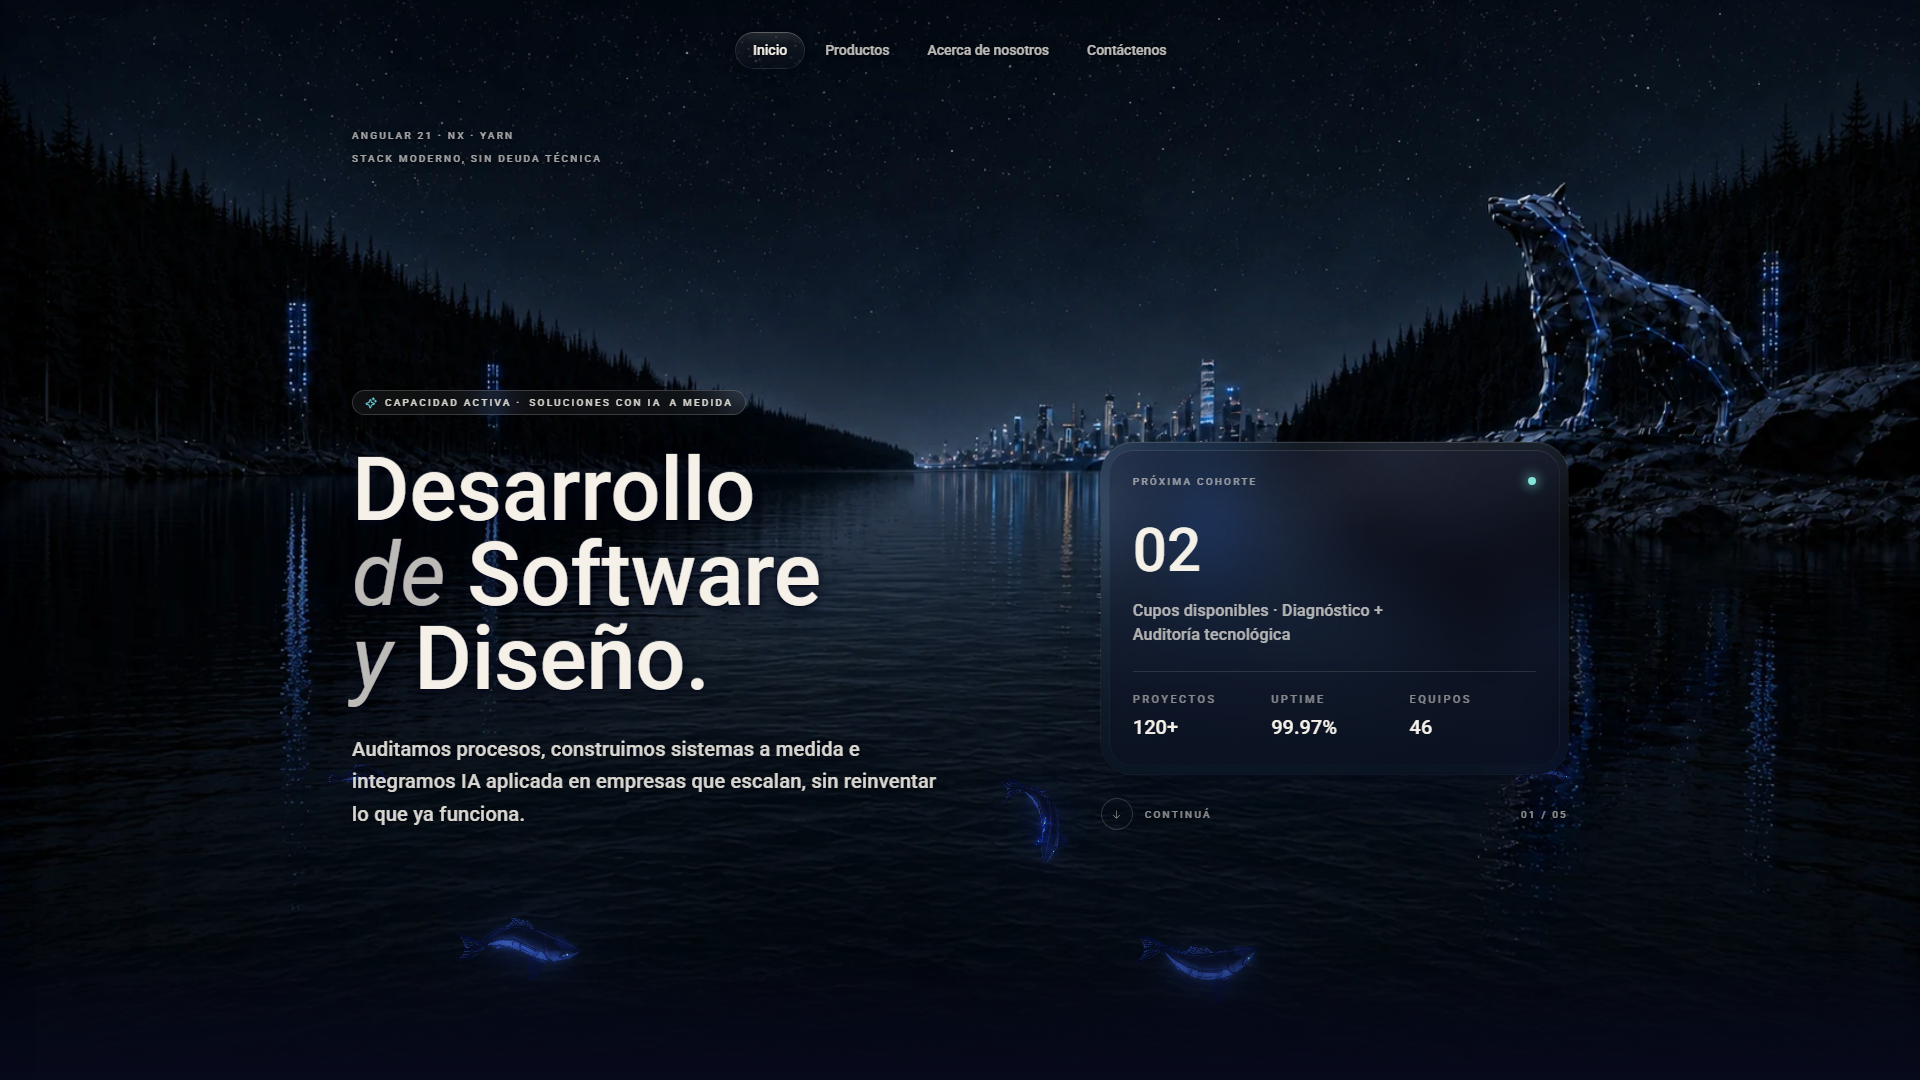
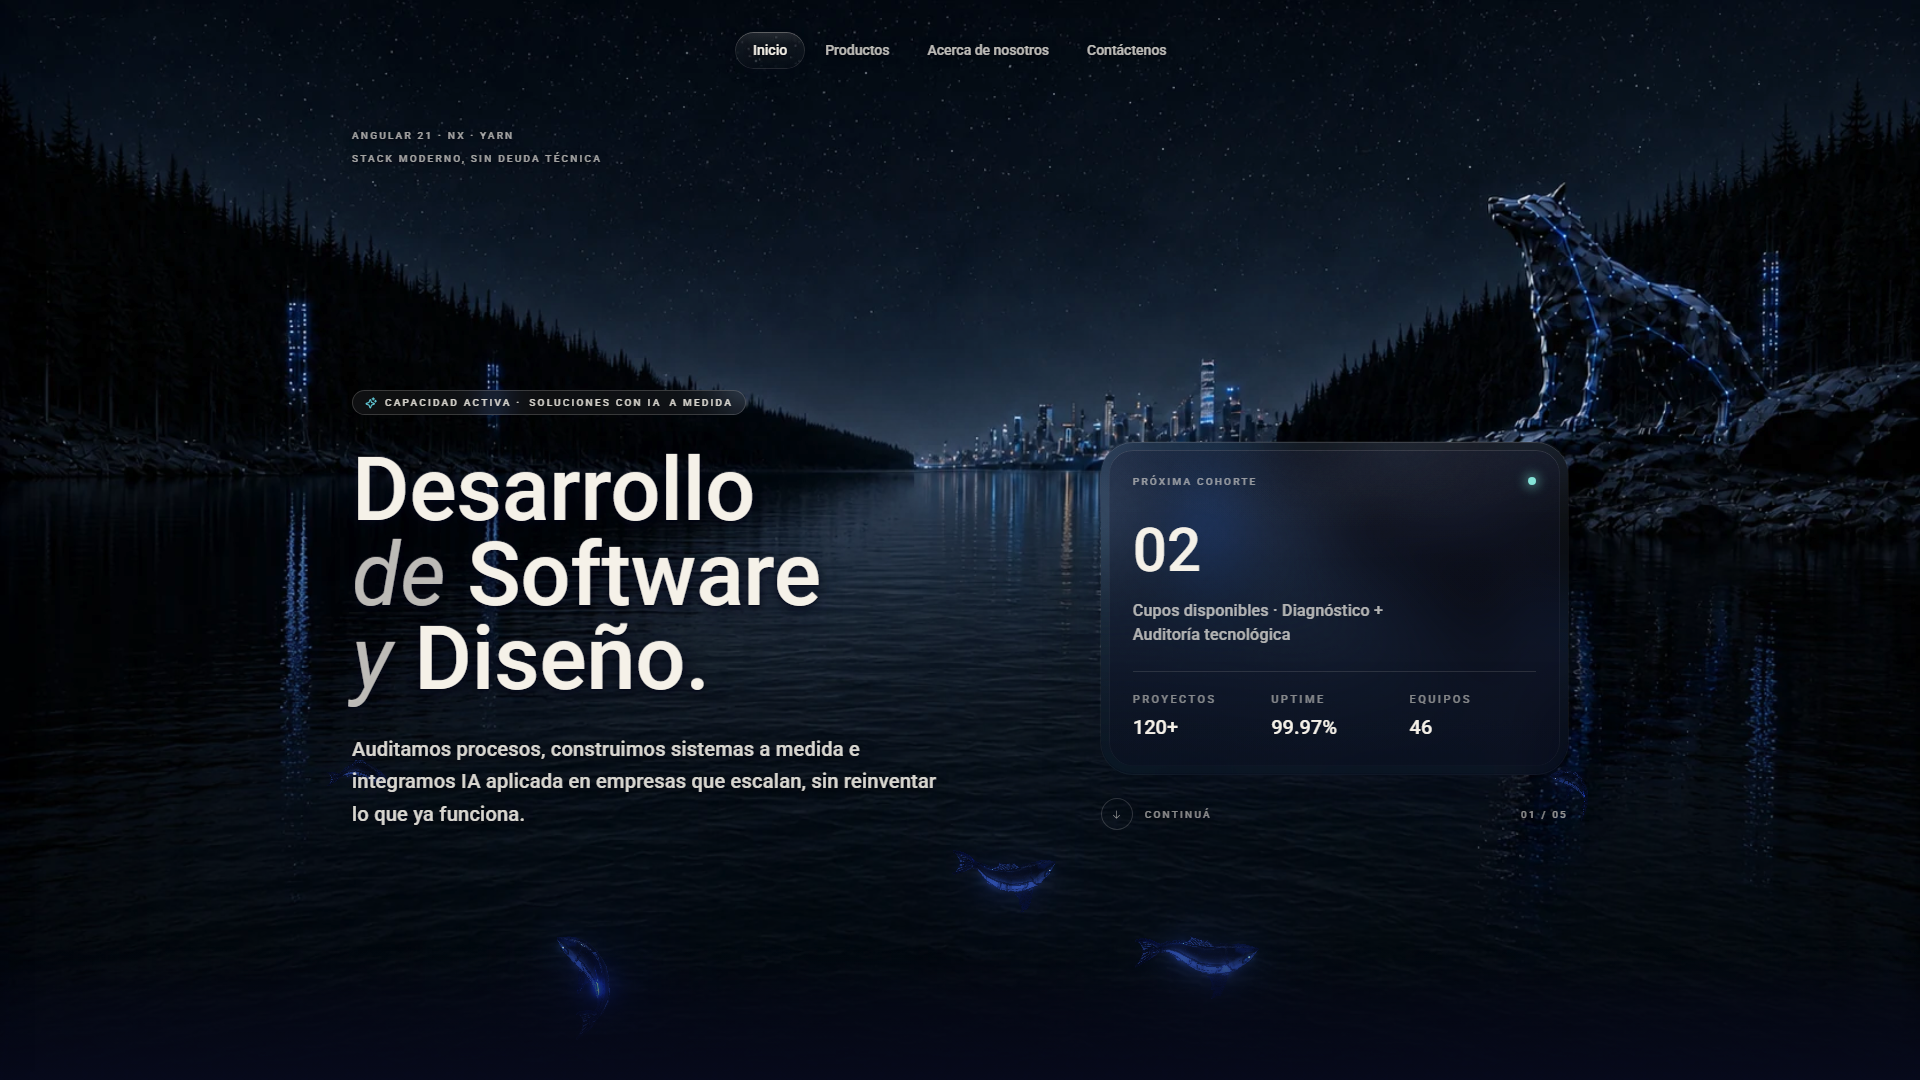
Improve lake water mask and fish lookahead
Make fish lookahead proportional to canvas size to avoid spawning loops on small screens and refine water mask generation to prevent water affecting rocks/skyline. Changes:

- libs/.../wolf-lake-canvas.ts: replace hardcoded lookahead with cw-based value (Math.max(80, cw * 0.18) + bodyScale*3) and add explanation comments; fixes fish getting stuck circling on small viewports.
- tools/hero-images-build.mjs: adjust water polygon points for the mobile hero variant to better follow the rock/lobo/skyline contour and reduce blur sigma from 1.5% to 0.8% of the smaller side to limit haloing.
- Updated generated assets/screenshots and Firebase hosting cache to reflect the rebuilt masks and images.

These changes reduce visual artifacts where water previously animated rock/skyline and improve fish movement consistency across device sizes.

diff --git a/libs/claudio-andrade-solutions/frontend/home/src/lib/sections/wolf-landscape/wolf-lake-canvas.ts b/libs/claudio-andrade-solutions/frontend/home/src/lib/sections/wolf-landscape/wolf-lake-canvas.ts
@@ -2829,7 +2829,12 @@ export class WolfLakeCanvas {
     const applyWander = (f: GlowFish, _dtNow: number, upperLimitV?: number): void => {
       const headX = f.spine[0].x;
       const headY = f.spine[0].y;
-      const lookaheadDist = 200 + f.bodyScale * 7;
+      // Lookahead PROPORCIONAL al canvas — antes hardcoded `200 + bodyScale*7`
+      // (~250 px) consumía 67% del ancho en phone 375 (iPhone SE), el pez no
+      // encontraba dirección válida y se quedaba dando vueltas chico al spawn
+      // ("en bola"). 18% del width da 67 px en iPhone SE y 246 px en desktop
+      // 1366 — la proporción relativa al mundo del pez es constante.
+      const lookaheadDist = Math.max(80, cw * 0.18) + f.bodyScale * 3;
       let bestAngle = f.heading;
       let bestScore = -Infinity;
       for (const dev of LOOK_DEVIATIONS) {
